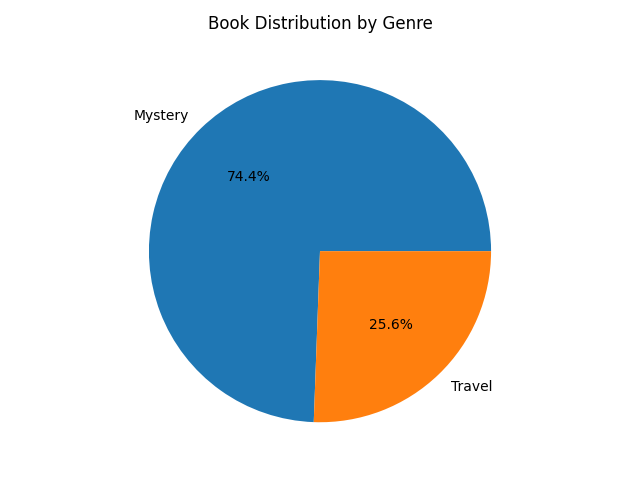
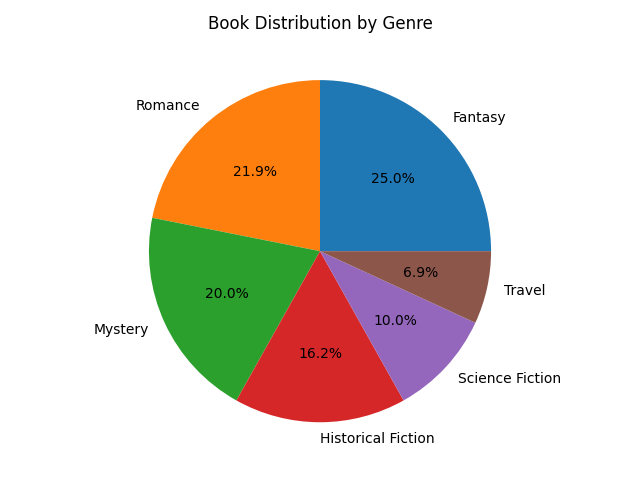
update full pipeline to scrape more categories

diff --git a/Lab03 - Data Acquisition/notebooks/full_pipeline_deliverables/full_pipeline.py b/Lab03 - Data Acquisition/notebooks/full_pipeline_deliverables/full_pipeline.py
@@ -392,7 +392,7 @@ github_data = pipeline.collect_from_api(
 # ─── Step 3: Scrape structured data from a webpage ───────────────────────────
 # CSS selectors map field names to HTML elements on the target page
 book_data = pipeline.collect_from_web(
-    categories=['Travel', 'Mystery'], 
+    categories=['Travel', 'Mystery', 'Historical Fiction', 'Science Fiction', 'Fantasy', 'Romance'],  
     max_pages_per_category=2,  
 )
 
